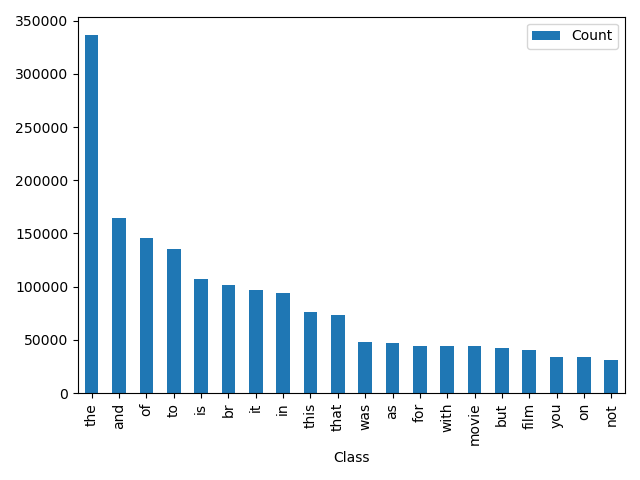
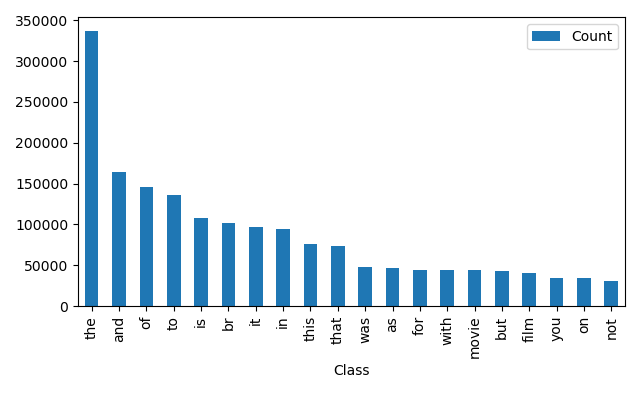
Add <br/> and ax to stopwords and regenerate plots

diff --git a/src/dataset_visualizer.py b/src/dataset_visualizer.py
@@ -22,25 +22,31 @@ def countplot(x, y, title=""):
     plt.show()
 
 
-#  imdb_p = Preprocessing(Dataset.imdb_reviews, vectorize=False)
-#  twenty_news_p = Preprocessing(Dataset.twenty_news, vectorize=False)
-#
-#  imdb_words_before, imdb_vect_before = imdb_p.custom_vectorizer(
-#  max_features=20, strip_accents="unicode"
-#  )
-#  imdb_words_after, imdb_vect_after = imdb_p.custom_vectorizer(
-#  max_features=20, stop_words="english", strip_accents="unicode", lowercase=True
-#  )
-#  twenty_words_before, twenty_vect_before = twenty_news_p.custom_vectorizer(
-#  max_features=20, strip_accents="unicode"
-#  )
-#  twenty_words_after, twenty_vect_after = twenty_news_p.custom_vectorizer(
-#  max_features=20, stop_words="english", strip_accents="unicode", lowercase=True
-#  )
-#  countplot(imdb_vect_before, imdb_words_before)  # Fig1
-#  countplot(imdb_vect_after, imdb_words_after)  # Fig2
-#  countplot(twenty_vect_before, twenty_words_before)  # Fig3
-#  countplot(twenty_vect_after, twenty_words_after)  # Fig4
+imdb_p = Preprocessing(Dataset.imdb_reviews, vectorize=False)
+twenty_news_p = Preprocessing(Dataset.twenty_news, vectorize=False)
+
+imdb_words_before, imdb_vect_before = imdb_p.custom_vectorizer(
+    max_features=20, strip_accents="unicode"
+)
+imdb_words_after, imdb_vect_after = imdb_p.custom_vectorizer(
+    max_features=20,
+    stop_words=Preprocessing.stop_words,
+    strip_accents="unicode",
+    lowercase=True,
+)
+twenty_words_before, twenty_vect_before = twenty_news_p.custom_vectorizer(
+    max_features=20, strip_accents="unicode"
+)
+twenty_words_after, twenty_vect_after = twenty_news_p.custom_vectorizer(
+    max_features=20,
+    stop_words=Preprocessing.stop_words,
+    strip_accents="unicode",
+    lowercase=True,
+)
+countplot(imdb_vect_before, imdb_words_before)  # Fig1
+countplot(imdb_vect_after, imdb_words_after)  # Fig2
+countplot(twenty_vect_before, twenty_words_before)  # Fig3
+countplot(twenty_vect_after, twenty_words_after)  # Fig4
 
 # total count article per newsgroup
 #  preproc = Preprocessing(Dataset.twenty_news)

diff --git a/src/preprocessing.py b/src/preprocessing.py
@@ -8,6 +8,8 @@ from sklearn.feature_extraction.text import CountVectorizer
 from sklearn.feature_extraction.text import TfidfTransformer
 from nltk import word_tokenize
 from nltk.stem import WordNetLemmatizer
+from sklearn.feature_extraction import text
+
 
 # Lemmatisation tokenizer from the Natural Language Toolkit (nlk)
 class LemmaTokenizer:
@@ -29,6 +31,8 @@ class Preprocessing:
     - Dataset 1: 20 news group dataset:
     - Dataset 2: IMDB Reviews:
     """
+
+    stop_words = text.ENGLISH_STOP_WORDS.union(["br", "ax"])
 
     def __init__(self, dataset, frac=1, vectorize=True):
         """aquire data"""
@@ -112,7 +116,7 @@ class Preprocessing:
             # also add a regex pattern
             #  token_pattern=r'(?u)\b\w\w+\b',
             #  max_features=20,
-            stop_words="english",
+            stop_words=Preprocessing.stop_words,
             strip_accents="unicode",
             lowercase=True,
             #  tokenizer=LemmaTokenizer(),
